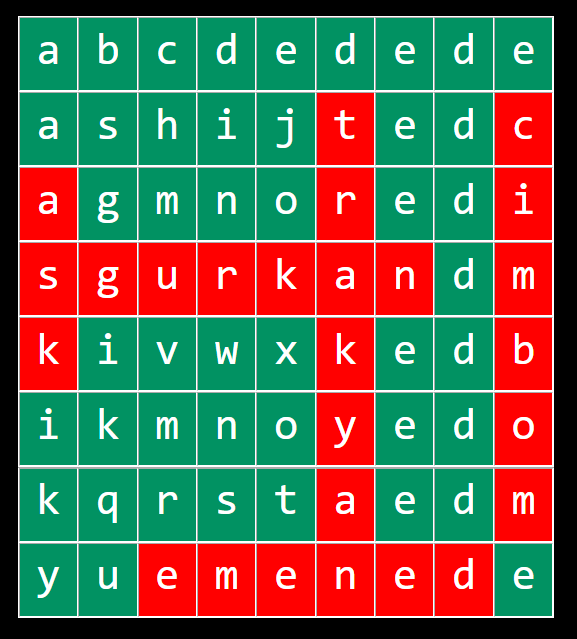
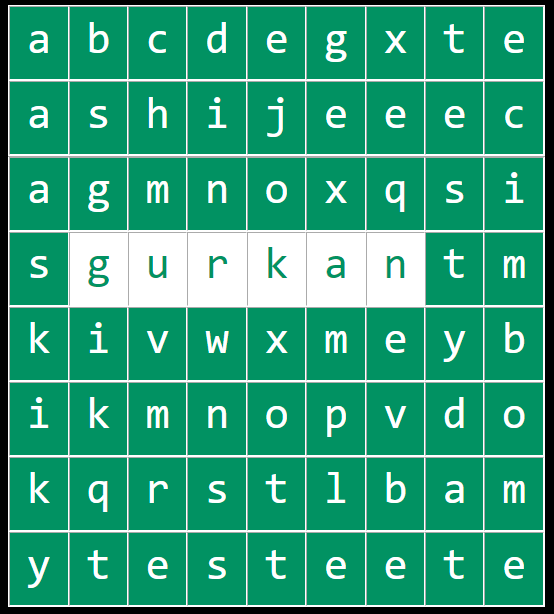
readme file and images updated

diff --git a/src/pages/Home/Home.js b/src/pages/Home/Home.js
@@ -3,16 +3,16 @@ import { WordPuzzleComponent } from "../../components/WordPuzzleComponent";
 import "./Home.css";
 
 export const Home = () => {
-  const answerWords = ["gurkan", "trakya", "deneme", "ask", "cimbom"];
+  const answerWords = ["gurkan", "example"];
   const matrix = [
-    ["a", "b", "c", "d", "e", "d", "e", "d", "e"],
-    ["a", "s", "h", "i", "j", "t", "e", "d", "c"],
-    ["a", "g", "m", "n", "o", "r", "e", "d", "i"],
-    ["s", "g", "u", "r", "k", "a", "n", "d", "m"],
-    ["k", "i", "v", "w", "x", "k", "e", "d", "b"],
-    ["i", "k", "m", "n", "o", "y", "e", "d", "o"],
-    ["k", "q", "r", "s", "t", "a", "e", "d", "m"],
-    ["y", "u", "e", "m", "e", "n", "e", "d", "e"],
+    ["a", "b", "c", "d", "e", "g", "x", "t", "e"],
+    ["a", "s", "h", "i", "j", "e", "e", "e", "c"],
+    ["a", "g", "m", "n", "o", "x", "q", "s", "i"],
+    ["s", "g", "u", "r", "k", "a", "n", "t", "m"],
+    ["k", "i", "v", "w", "x", "m", "e", "y", "b"],
+    ["i", "k", "m", "n", "o", "p", "v", "d", "o"],
+    ["k", "q", "r", "s", "t", "l", "b", "a", "m"],
+    ["y", "t", "e", "s", "t", "e", "e", "t", "e"],
   ];
 
   const [isSelecting, setIsSelecting] = useState(false);

diff --git a/README.md b/README.md
@@ -1,77 +1,133 @@
-# example image
+
+# Word Search Puzzle
+
+A simple word search puzzle component
+
+[github-page](https://github.com/gurkanucar/word_search_puzzle)
+
+## Example Images
+
 ![Alt img](./example.png)
 
 ![Alt img](./example2.png)
 
 ![Alt img](./example3.png)
 
-# Getting Started with Create React App
 
-This project was bootstrapped with [Create React App](https://github.com/facebook/create-react-app).
+## Properties
 
-## Available Scripts
+#### style properties
 
-In the project directory, you can run:
+```  
+    design={{
+          markedBackgroundColor: "#00C3FF",
+          selectedBackgroundColor: "white",
+          hoveredBackgroundColor: "rgb(0, 218, 145)",
+          backgroundColor: "rgb(1, 146, 98)",
+          fontFamily: "monospace",
+          fontWeight: "",
+          fontSize: "2.5rem",
+          markedForeColor: "white",
+          selectedForeColor: "rgb(1, 146, 98)",
+          hoveredForeColor: "white",
+          foreColor: "white",
+        }}
+```
 
-### `yarn start`
+#### option properties
 
-Runs the app in the development mode.\
-Open [http://localhost:3000](http://localhost:3000) to view it in the browser.
+```  
+    options={{
+          answerWords: answerWords,
+          matrix: matrix,
+          isSelecting: isSelecting,
+          selectedLetters: selectedLetters,
+          setSelectedLetters: setSelectedLetters,
+          markedLetters: markedLetters,
+          setMarkedLetters: setMarkedLetters,
+          setIsSelecting: setIsSelecting,
+          availablePaths: [
+            // "right2left",
+            "left2right",
+            "top2bottom",
+            //"bottom2top",
+          ],
+        }}
+```
+## Usage/Examples
 
-The page will reload if you make edits.\
-You will also see any lint errors in the console.
+#### variables
 
-### `yarn test`
+```javascript
+  const answerWords = ["gurkan", "test" ];
+  const matrix = [
+    ["a", "b", "c", "d", "e", "d", "e", "d", "e"],
+    ["a", "s", "h", "i", "j", "t", "e", "d", "c"],
+    ["a", "g", "m", "n", "o", "r", "e", "d", "i"],
+    ["s", "g", "u", "r", "k", "a", "n", "d", "m"],
+    ["k", "i", "v", "w", "x", "k", "e", "d", "b"],
+    ["i", "k", "m", "n", "o", "y", "e", "d", "o"],
+    ["k", "q", "r", "s", "t", "a", "e", "d", "m"],
+    ["y", "t", "e", "s", "t", "n", "e", "d", "e"],
+  ];
 
-Launches the test runner in the interactive watch mode.\
-See the section about [running tests](https://facebook.github.io/create-react-app/docs/running-tests) for more information.
+  const [isSelecting, setIsSelecting] = useState(false);
 
-### `yarn build`
+  const [selectedLetters, setSelectedLetters] = useState([]);
+  const [markedLetters, setMarkedLetters] = useState([]);
+```
 
-Builds the app for production to the `build` folder.\
-It correctly bundles React in production mode and optimizes the build for the best performance.
+#### handle data
 
-The build is minified and the filenames include the hashes.\
-Your app is ready to be deployed!
+```javascript
+  useEffect(() => {
+    if (isSelecting) {
+      console.log("selected");
+    } else {
+      console.log("released");
+      const selectedWord = selectedLetters.map((x) => x.letter).join("");
+      console.log(selectedWord);
+    }
+  }, [isSelecting]);
 
-See the section about [deployment](https://facebook.github.io/create-react-app/docs/deployment) for more information.
+  useEffect(() => {
+    console.log("marked letters:", markedLetters);
+  }, [markedLetters]);
+```
 
-### `yarn eject`
+#### component
 
-**Note: this is a one-way operation. Once you `eject`, you can’t go back!**
+```javascript
+ <WordPuzzleComponent
+        design={{
+          markedBackgroundColor: "#00C3FF",
+          selectedBackgroundColor: "white",
+          hoveredBackgroundColor: "rgb(0, 218, 145)",
+          backgroundColor: "rgb(1, 146, 98)",
+          fontFamily: "monospace",
+          fontWeight: "",
+          fontSize: "2.5rem",
+          markedForeColor: "white",
+          selectedForeColor: "rgb(1, 146, 98)",
+          hoveredForeColor: "white",
+          foreColor: "white",
+        }}
+        options={{
+          answerWords: answerWords,
+          matrix: matrix,
+          isSelecting: isSelecting,
+          selectedLetters: selectedLetters,
+          setSelectedLetters: setSelectedLetters,
+          markedLetters: markedLetters,
+          setMarkedLetters: setMarkedLetters,
+          setIsSelecting: setIsSelecting,
+          availablePaths: [
+            // "right2left",
+            "left2right",
+            "top2bottom",
+            //"bottom2top",
+          ],
+        }}
+      />
+```
 
-If you aren’t satisfied with the build tool and configuration choices, you can `eject` at any time. This command will remove the single build dependency from your project.
-
-Instead, it will copy all the configuration files and the transitive dependencies (webpack, Babel, ESLint, etc) right into your project so you have full control over them. All of the commands except `eject` will still work, but they will point to the copied scripts so you can tweak them. At this point you’re on your own.
-
-You don’t have to ever use `eject`. The curated feature set is suitable for small and middle deployments, and you shouldn’t feel obligated to use this feature. However we understand that this tool wouldn’t be useful if you couldn’t customize it when you are ready for it.
-
-## Learn More
-
-You can learn more in the [Create React App documentation](https://facebook.github.io/create-react-app/docs/getting-started).
-
-To learn React, check out the [React documentation](https://reactjs.org/).
-
-### Code Splitting
-
-This section has moved here: [https://facebook.github.io/create-react-app/docs/code-splitting](https://facebook.github.io/create-react-app/docs/code-splitting)
-
-### Analyzing the Bundle Size
-
-This section has moved here: [https://facebook.github.io/create-react-app/docs/analyzing-the-bundle-size](https://facebook.github.io/create-react-app/docs/analyzing-the-bundle-size)
-
-### Making a Progressive Web App
-
-This section has moved here: [https://facebook.github.io/create-react-app/docs/making-a-progressive-web-app](https://facebook.github.io/create-react-app/docs/making-a-progressive-web-app)
-
-### Advanced Configuration
-
-This section has moved here: [https://facebook.github.io/create-react-app/docs/advanced-configuration](https://facebook.github.io/create-react-app/docs/advanced-configuration)
-
-### Deployment
-
-This section has moved here: [https://facebook.github.io/create-react-app/docs/deployment](https://facebook.github.io/create-react-app/docs/deployment)
-
-### `yarn build` fails to minify
-
-This section has moved here: [https://facebook.github.io/create-react-app/docs/troubleshooting#npm-run-build-fails-to-minify](https://facebook.github.io/create-react-app/docs/troubleshooting#npm-run-build-fails-to-minify)
